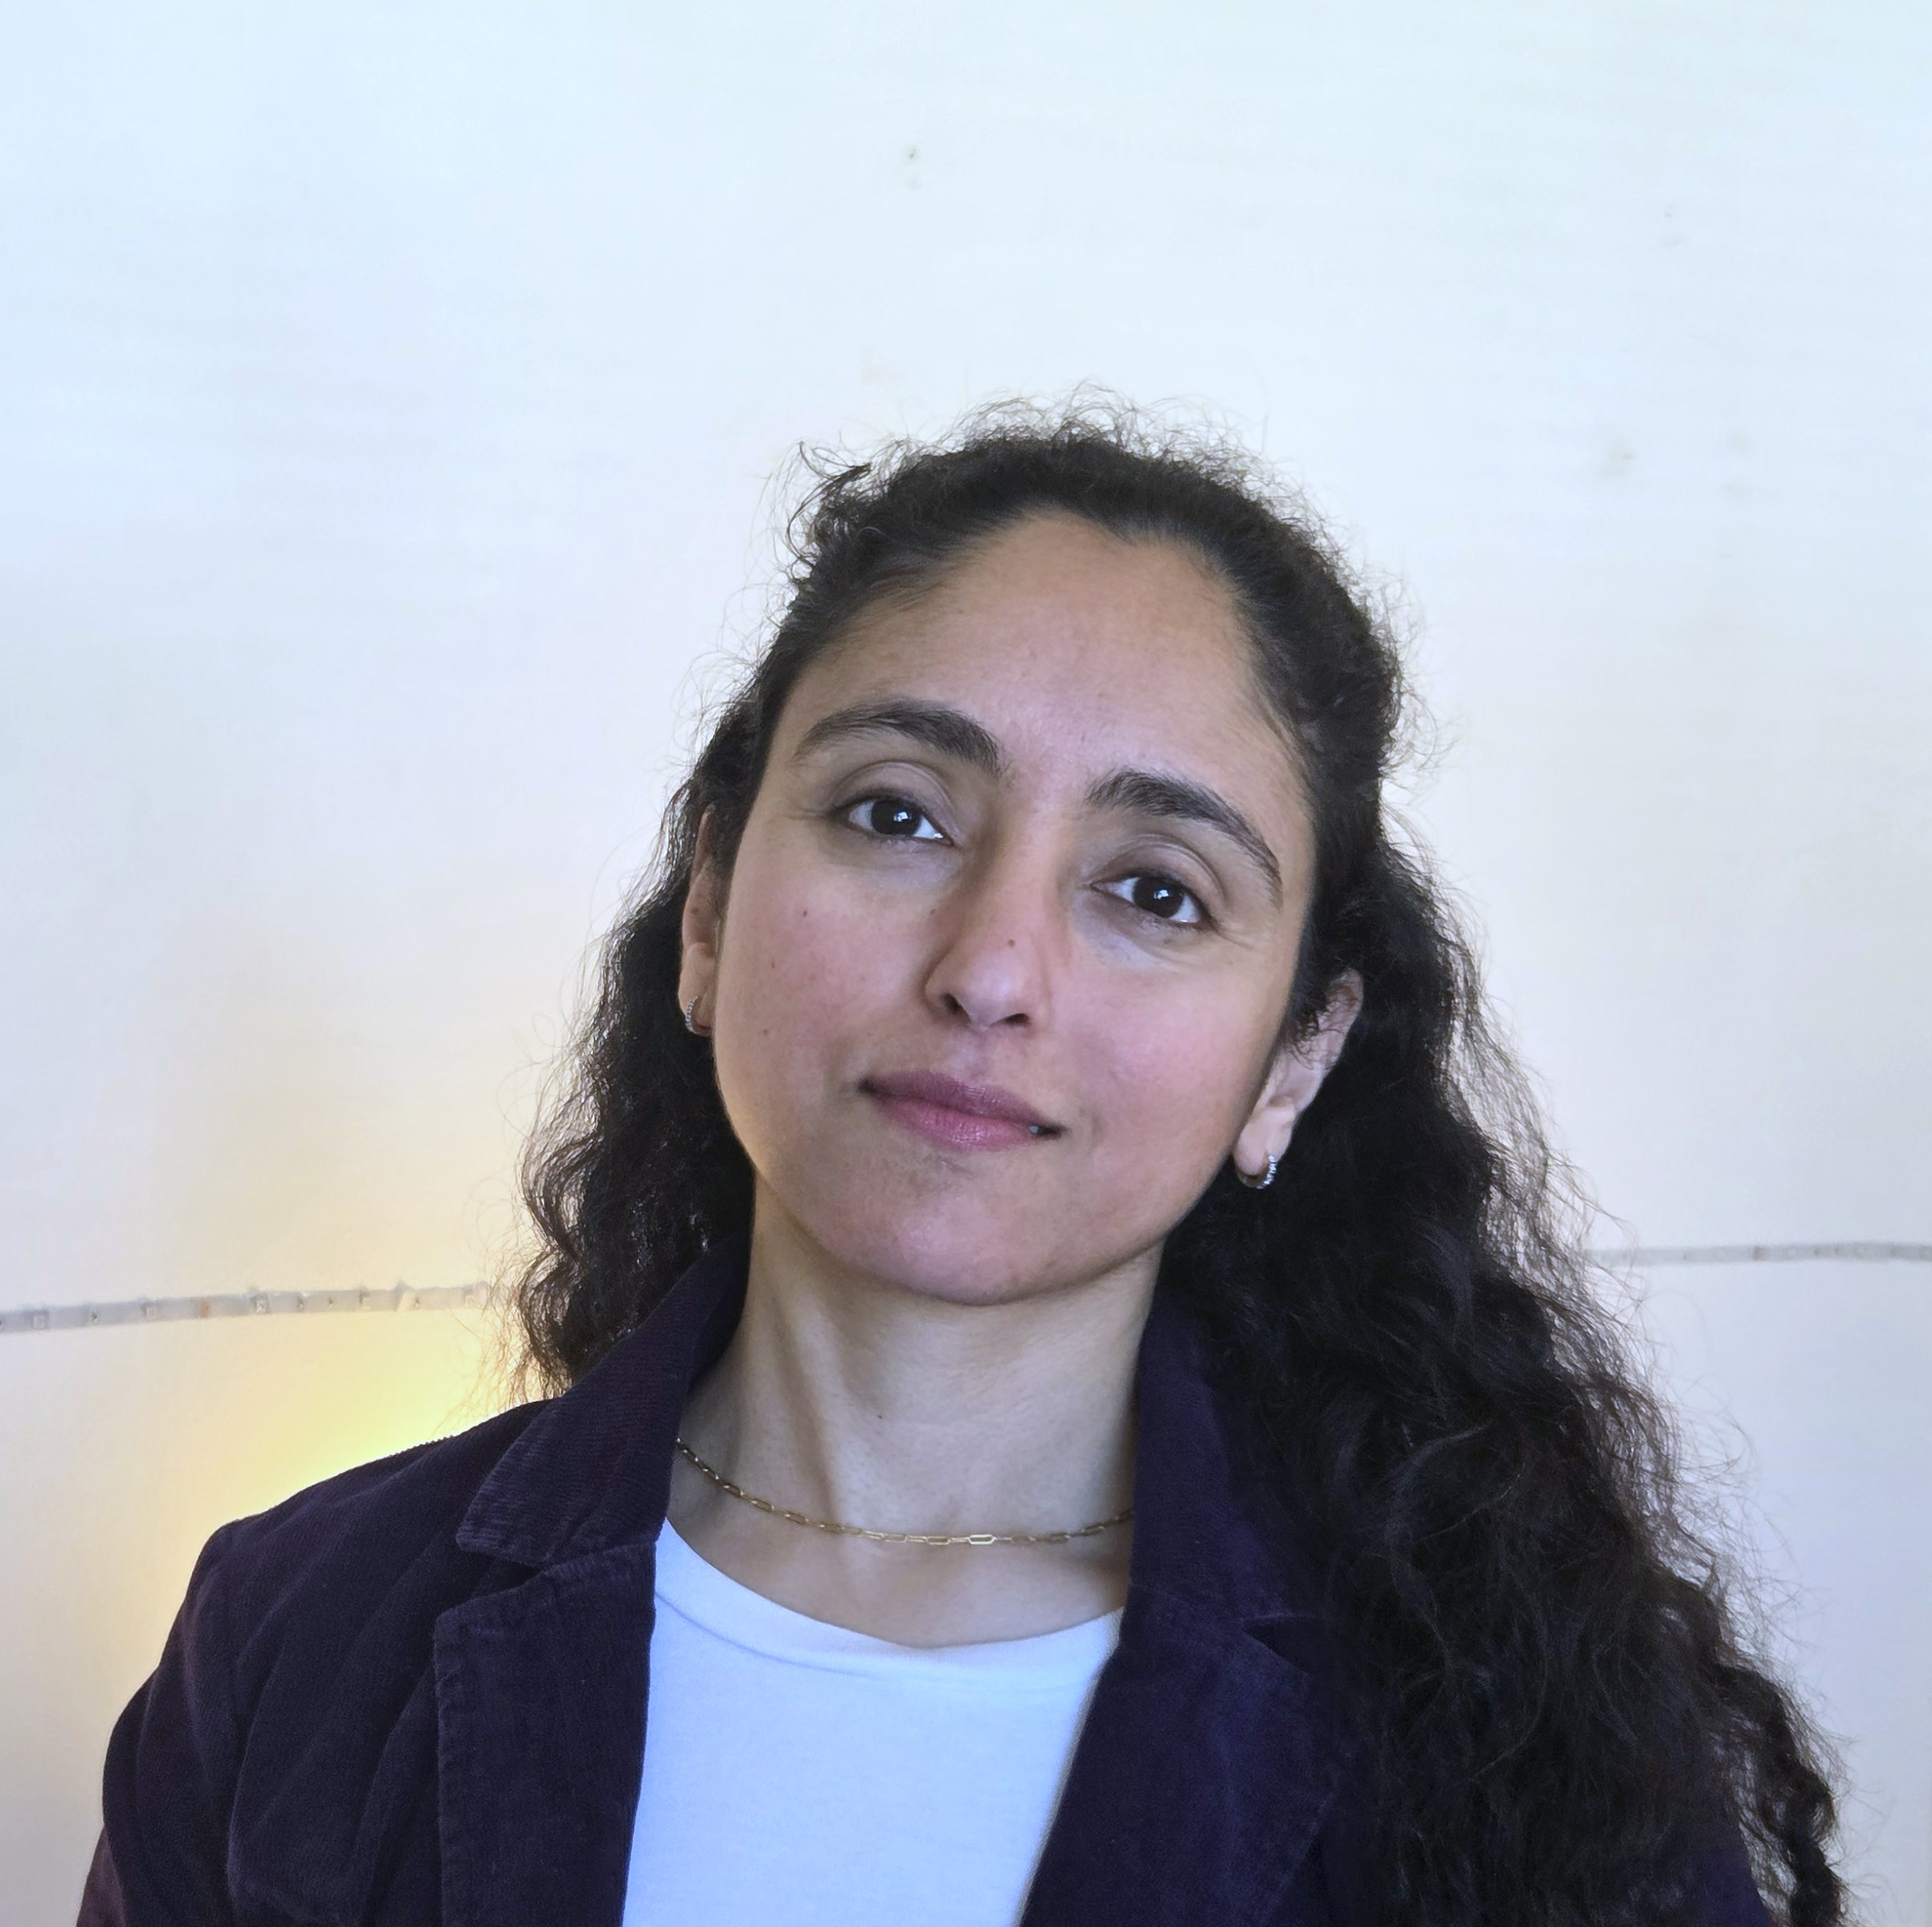
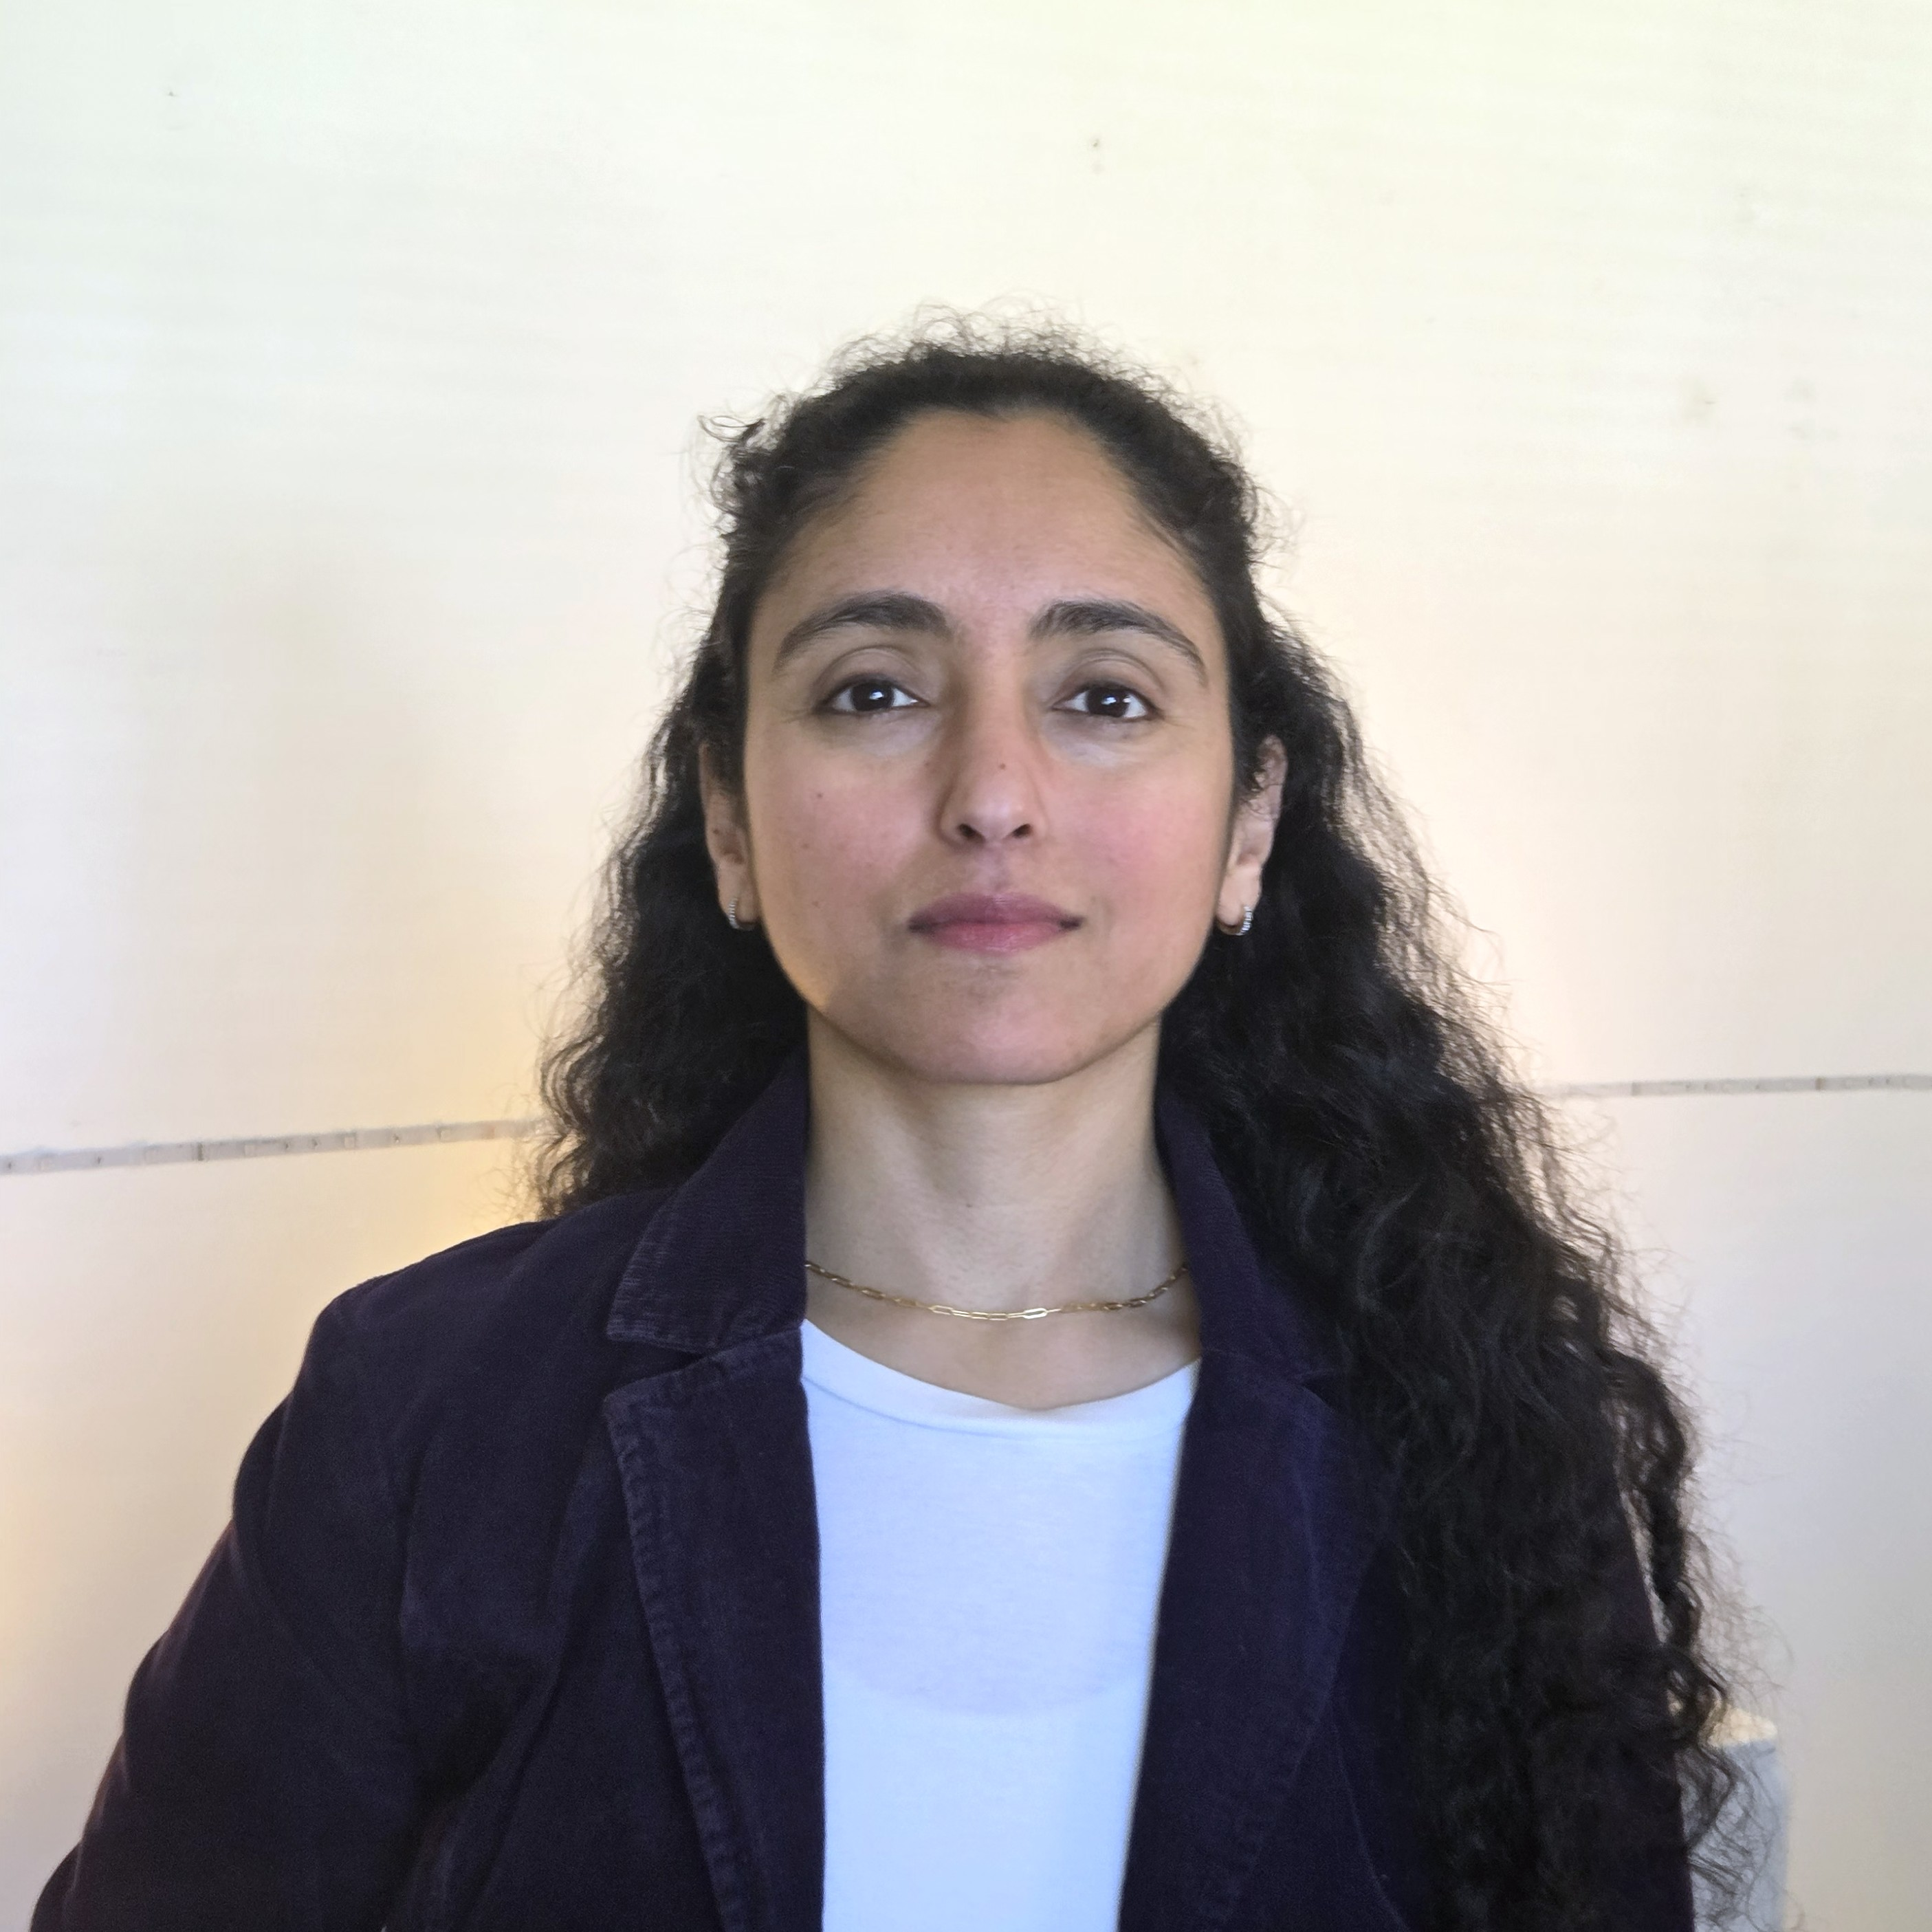
updated image

diff --git a/src/components/FounderBio.tsx b/src/components/FounderBio.tsx
@@ -9,11 +9,11 @@ export const FounderBio: React.FC = () => {
 
                     {/* Column 1: The Visual */}
                     <div className="w-full md:w-[40%] flex flex-col items-center md:items-start">
-                        <div className="relative w-full max-w-[280px] mx-auto md:mx-0">
+                        <div className="relative w-full max-w-[240px] mx-auto md:mx-0">
                             <img
                                 src="/images/navilla-bagga.jpg"
                                 alt="Navilla Bagga - Founder of Opound"
-                                className="w-full h-auto md:h-[320px] object-cover rounded-2xl border border-emerald-500/30 shadow-[0_0_15px_rgba(16,185,129,0.1)] bg-[#1e293b]"
+                                className="w-full aspect-square object-cover rounded-full border border-emerald-500/30 shadow-[0_0_15px_rgba(16,185,129,0.1)] bg-[#1e293b]"
                             />
                             <p className="text-center md:text-left text-[11px] text-slate-500 mt-4 font-medium tracking-wide">
                                 Navilla Bagga · Fractional AI Product Lead & FinTech Systems Architect